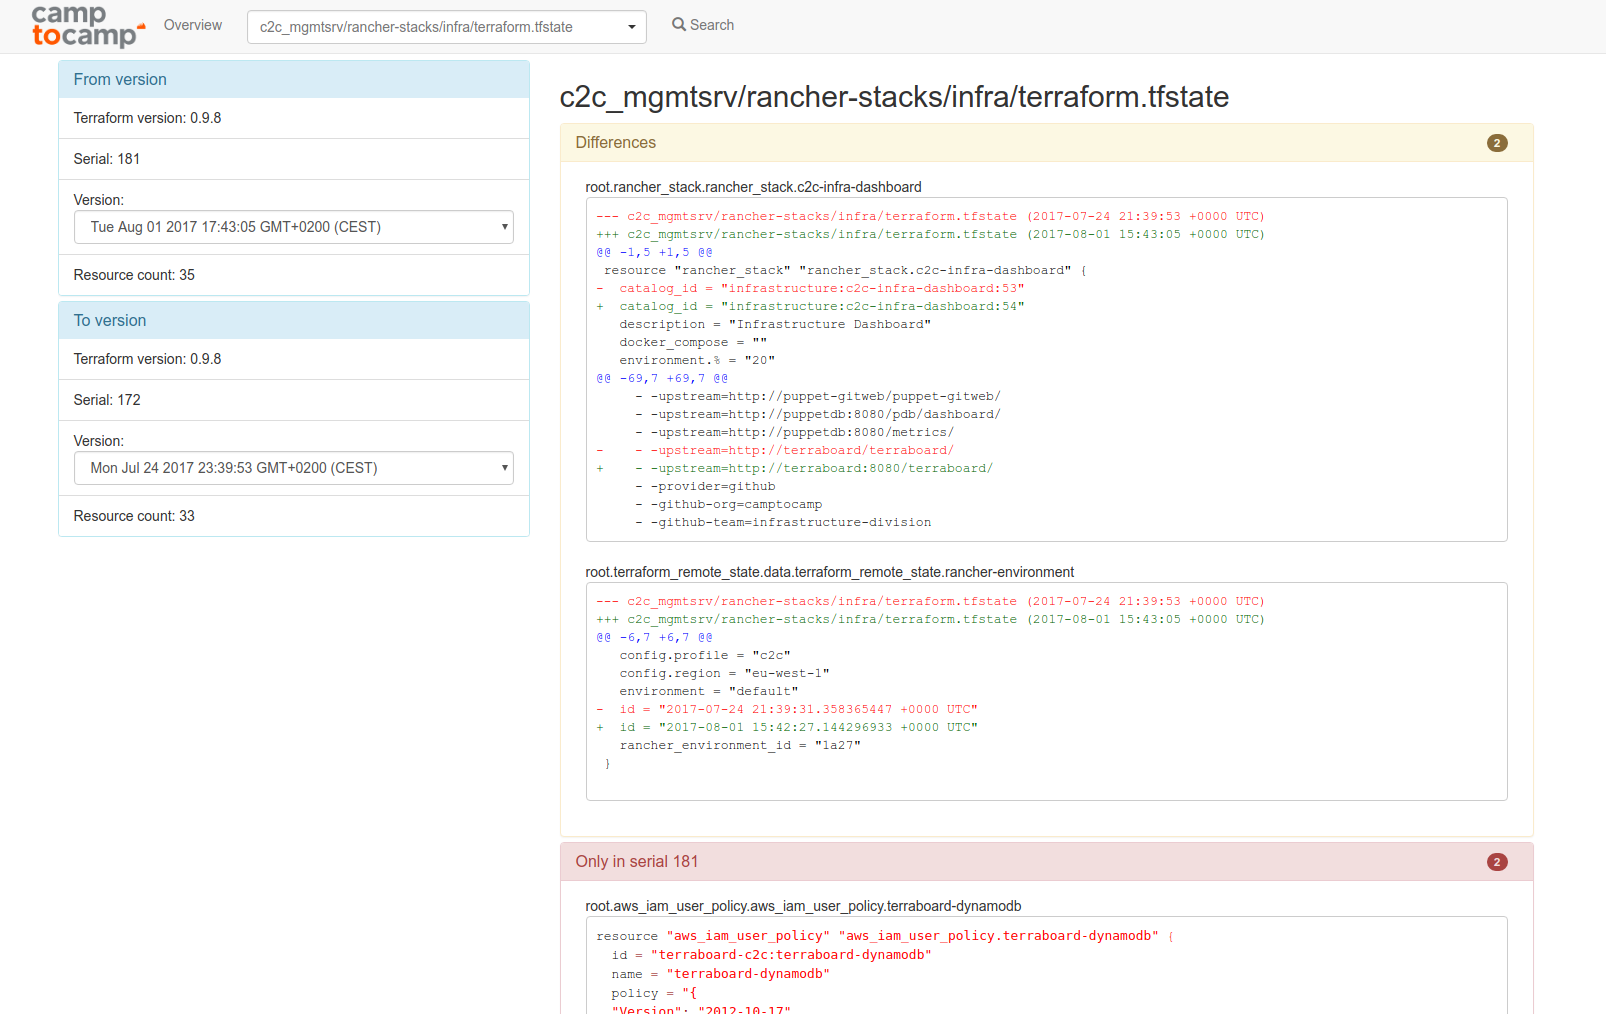
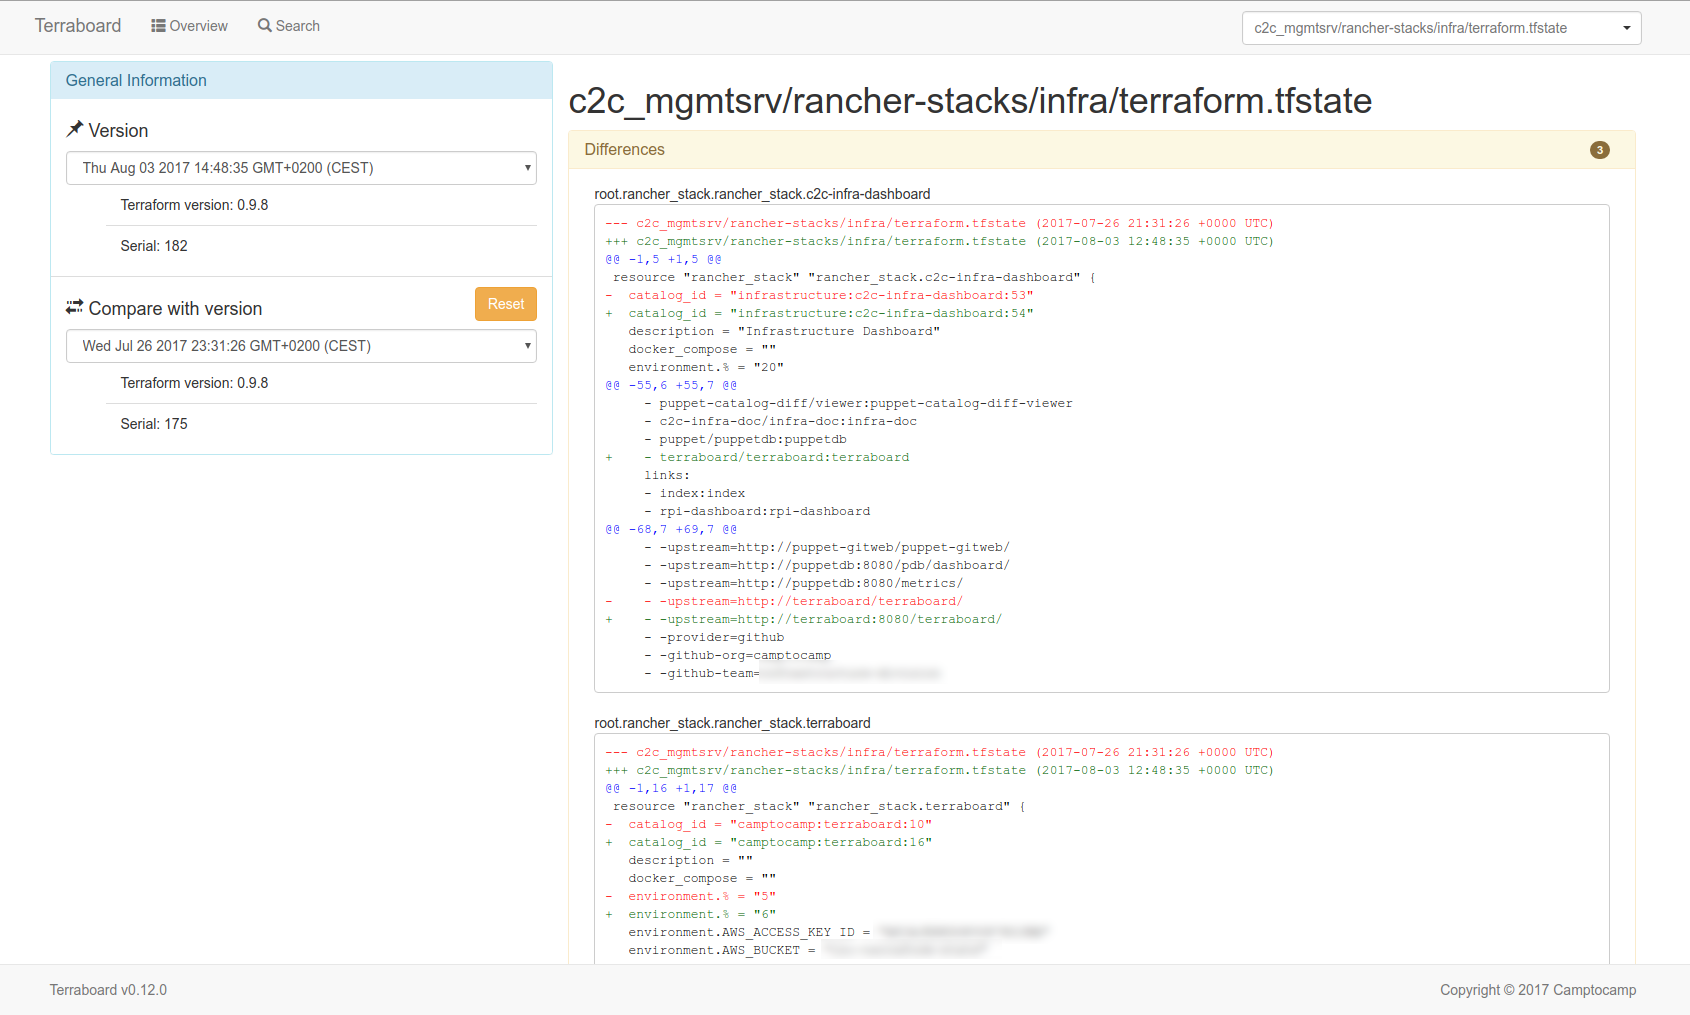
Update screenshots

diff --git a/README.md b/README.md
@@ -25,9 +25,32 @@ It currently only supports S3 as a remote state backend, and dynamoDB for
 retrieving lock informations.
 
 
+### Overview
+
+The overview presents all the state files in the S3 bucket, by most recent
+modification date.
+
 ![Screenshot Overview](screenshots/main.png)
 
+
+### Search
+
+The search view allow to find resources by various criteria.
+
+![Screenshot Search](screenshots/search.png)
+
+
+### State
+
+The state view presents details of a Terraform state at a given version.
+
 ![Screenshot State](screenshots/state.png)
+
+
+### Compare
+
+From the state view, you can compare the current state version with another
+version.
 
 ![Screenshot Compare](screenshots/compare.png)
 
